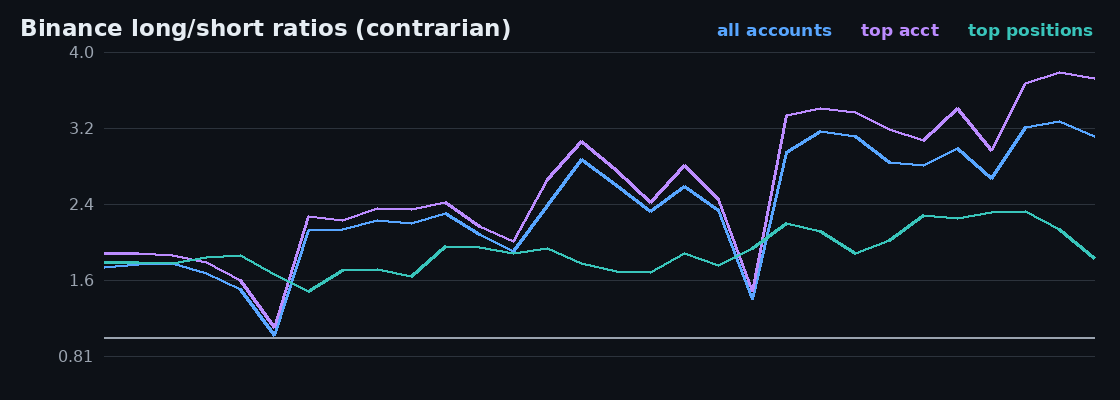
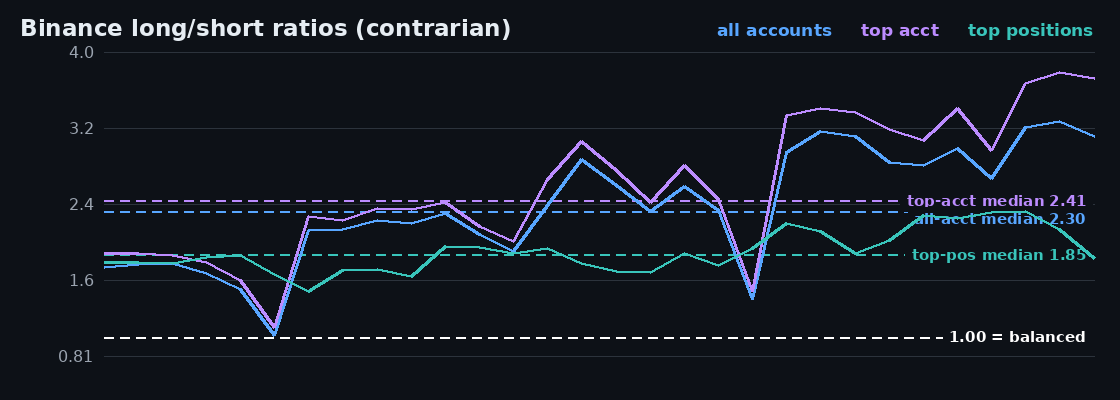
charts: L/S medians + 1.00 balance line as labelled dotted refs

diff --git a/index.html b/index.html
@@ -91,7 +91,7 @@ font-family:var(--mono);font-size:17px;font-weight:650;color:#e6edf3}
 </style></head><body><div class="wrap">
 <header>
   <h1>BTC Daily Digest</h1>
-  <div class="spotlbl">Bitcoin spot &middot; Coinbase<span class="upd">updated 2026-11-15 14:38 UTC</span></div>
+  <div class="spotlbl">Bitcoin spot &middot; Coinbase<span class="upd">updated 2026-11-15 14:44 UTC</span></div>
   <div class="spotpx">$64,907</div>
   <div class="spotrow"><span><b>Binance</b>$64,947</span><span><b>Coinbase &minus; Binance</b>-40 (-0.06%)</span><span><b>USDT/USD</b>0.99929</span></div>
   <div class="verdict-card">VERDICT: US bid ABSENT - premium negative, 30d mean at lows</div>
@@ -199,7 +199,7 @@ Colour is the stance, not the tone of the wording:
 
 <section id="charts" class="tab">
 <p class="note">Every indicator the digest tracks, charted. Hover-free, static PNGs &mdash; they render anywhere.</p>
-<div class="cgrid"><div class="ccard wide"><h4>Cycle context - price vs Balanced Price and all-time anchored VWAP</h4><div class="cnow"><span class="chip">Balanced $38,709</span><span class="chip">spot 1.68x balanced</span><span class="chip">AVWAP $29,928</span><span class="chip">spot 2.17x AVWAP</span></div><img src="chart.png" alt="BTC price, Balanced Price, anchored VWAP"><p class="cuse"><strong>How to use it:</strong> Balanced Price is where past cycle BOTTOMS converged (about 1.0x). The AVWAP is the market&#x27;s all-time break-even. The further spot sits above these, the more downside exists before deep support is reached. These are floors, not timing triggers - price can stay far above them for a long time.</p><p class="cverdict">&rarr; Spot is 1.68x the Balanced floor and 2.17x the all-time VWAP. A full retest of the floor would be roughly $38,709.</p></div><div class="ccard wide"><h4>Price vs moving averages</h4><div class="cnow"><span class="chip">spot $64,907</span><span class="chip">MA10 $72,882</span><span class="chip">MA50 $80,138</span><span class="chip">MA200 $72,973</span><span class="chip">vs MA200 -11.1%</span></div><img src="c_price.png" alt="Price vs moving averages"><p class="cuse"><strong>How to use it:</strong> A bounce in a downtrend stalls at the FIRST moving average above it. MA200 is the line the short-fade block waits for. Price above an MA = that MA is support; below = it is resistance.</p><p class="cverdict">&rarr; Spot is below all three MAs (none above), so every rally runs into overhead supply. MA200 is 11.1% away.</p></div><div class="ccard"><h4>Coinbase premium (US vs global bid)</h4><div class="cnow"><span class="chip">live -0.049%</span><span class="chip">30d mean -0.142%</span><span class="chip">71d negative</span></div><img src="c_premium.png" alt="Coinbase premium (US vs global bid)"><p class="cuse"><strong>How to use it:</strong> Above the zero line = US buyers paying more than global = US demand leading. A run of 20+ days below zero is a REGIME, not noise - it means the deepest pool of buyers is simply absent.</p><p class="cverdict">&rarr; US bid missing for 71 straight days - the structural buyer is not there.</p></div><div class="ccard"><h4>RSI momentum</h4><div class="cnow"><span class="chip">RSI6 9.2</span><span class="chip">RSI14 20.0</span><span class="chip">RSI24 28.0</span><span class="chip">RSI14 1y pctile 2%</span></div><img src="c_rsi.png" alt="RSI momentum"><p class="cuse"><strong>How to use it:</strong> Red 70 / green 30. Fast line above slow = momentum improving; fast BELOW slow = momentum deteriorating and bounces are being sold. This describes force - it does not trigger a trade on its own.</p><p class="cverdict">&rarr; RSI14 20.0 is oversold - capitulation zone, where bounces historically start. Fast &lt; slow: momentum still deteriorating.</p></div><div class="ccard"><h4>ETF net flows</h4><div class="cnow"><span class="chip">latest $+0m</span><span class="chip">5d $-770m</span><span class="chip">30d $-2,245m</span></div><img src="c_etf.png" alt="ETF net flows"><p class="cuse"><strong>How to use it:</strong> Green bars = creations (money in), red = redemptions (money out). Read the SUMS, never a single day - one day is noise, the 30d line is the trend. The amber line is cumulative.</p><p class="cverdict">&rarr; Money still leaving: $-2,245m over 30 days.</p></div><div class="ccard"><h4>Stablecoin supply</h4><div class="cnow"><span class="chip">combined $244.6bn</span><span class="chip">7d -2.79bn</span><span class="chip">30d -11.65bn</span></div><img src="c_stables.png" alt="Stablecoin supply"><p class="cuse"><strong>How to use it:</strong> Stablecoins are the dry powder of crypto. Expanding supply = fresh fiat entering the system. Contracting = capital leaving crypto entirely - it is NOT money sitting on the sidelines waiting.</p><p class="cverdict">&rarr; Contracting on both windows (-11.65bn over 30d) - capital is exiting, not waiting.</p></div><div class="ccard"><h4>Funding rate - what leverage costs</h4><div class="cnow"><span class="chip">now +0.0023%/8h</span><span class="chip">30d avg -&gt; +7.6% APR</span><span class="chip">positive 99% of time</span></div><img src="c_funding.png" alt="Funding rate - what leverage costs"><p class="cuse"><strong>How to use it:</strong> Funding is the 8-hourly payment between longs and shorts. Positive = LONGS pay shorts = leveraged longs are the crowded side (bearish tilt, dips get flushed). Negative = shorts pay, meaning crowded shorts and squeeze fuel UP - hostile to a short.</p><p class="cverdict">&rarr; Longs still paying - leveraged longs have NOT capitulated, so dips get flushed.</p></div><div class="ccard"><h4>Long/short ratios - who is crowded</h4><div class="cnow"><span class="chip">all acct 3.08 (87th pctile)</span><span class="chip">top acct 3.68 (97th pctile)</span><span class="chip">top positions 1.81</span></div><img src="c_ratios.png" alt="Long/short ratios - who is crowded"><p class="cuse"><strong>How to use it:</strong> Above 1 = more longs than shorts. Read it CONTRARIAN: a crowded long book is squeeze fuel DOWN; a crowded short book is squeeze fuel UP. When retail is long but top-trader POSITIONS are falling, smart money is exiting into retail strength. Mid-range percentile = no signal.</p><p class="cverdict">&rarr; Crowd is crowded LONG (87th pctile) - squeeze fuel down. Top-trader positions at 1.81, so smart money is not adding.</p></div><div class="ccard"><h4>Open interest - how much leverage exists</h4><div class="cnow"><span class="chip">$6.28bn</span><span class="chip">1d -0.44bn</span><span class="chip">30d range 6.28-8.24</span></div><img src="c_oi.png" alt="Open interest - how much leverage exists"><p class="cuse"><strong>How to use it:</strong> Total value of open perp positions. RISING = fresh positions entering (trend fuel). FALLING = positions closing, usually forced liquidation - that is deleveraging, not new shorts, and it often marks a local bounce.</p><p class="cverdict">&rarr; OI draining (-0.44bn) - deleveraging/liquidation, not fresh shorts.</p></div><div class="ccard"><h4>Volume: spot vs perp</h4><div class="cnow"><span class="chip">spot $1.4bn</span><span class="chip">perp $12.7bn</span><span class="chip">perp/spot 9.0x</span></div><img src="c_volume.png" alt="Volume: spot vs perp"><p class="cuse"><strong>How to use it:</strong> Spot volume is real buying and selling. Perp volume is leveraged bets on price. When perp dwarfs spot, price is being moved by leverage rather than by people taking delivery - moves are faster and less durable.</p><p class="cverdict">&rarr; Perp is 9.0x spot - leverage-dominated tape, expect fragile moves and liquidation wicks.</p></div></div>
+<div class="cgrid"><div class="ccard wide"><h4>Cycle context - price vs Balanced Price and all-time anchored VWAP</h4><div class="cnow"><span class="chip">Balanced $38,709</span><span class="chip">spot 1.68x balanced</span><span class="chip">AVWAP $29,928</span><span class="chip">spot 2.17x AVWAP</span></div><img src="chart.png" alt="BTC price, Balanced Price, anchored VWAP"><p class="cuse"><strong>How to use it:</strong> Balanced Price is where past cycle BOTTOMS converged (about 1.0x). The AVWAP is the market&#x27;s all-time break-even. The further spot sits above these, the more downside exists before deep support is reached. These are floors, not timing triggers - price can stay far above them for a long time.</p><p class="cverdict">&rarr; Spot is 1.68x the Balanced floor and 2.17x the all-time VWAP. A full retest of the floor would be roughly $38,709.</p></div><div class="ccard wide"><h4>Price vs moving averages</h4><div class="cnow"><span class="chip">spot $64,907</span><span class="chip">MA10 $72,882</span><span class="chip">MA50 $80,138</span><span class="chip">MA200 $72,973</span><span class="chip">vs MA200 -11.1%</span></div><img src="c_price.png" alt="Price vs moving averages"><p class="cuse"><strong>How to use it:</strong> A bounce in a downtrend stalls at the FIRST moving average above it. MA200 is the line the short-fade block waits for. Price above an MA = that MA is support; below = it is resistance.</p><p class="cverdict">&rarr; Spot is below all three MAs (none above), so every rally runs into overhead supply. MA200 is 11.1% away.</p></div><div class="ccard"><h4>Coinbase premium (US vs global bid)</h4><div class="cnow"><span class="chip">live -0.049%</span><span class="chip">30d mean -0.142%</span><span class="chip">71d negative</span></div><img src="c_premium.png" alt="Coinbase premium (US vs global bid)"><p class="cuse"><strong>How to use it:</strong> Above the zero line = US buyers paying more than global = US demand leading. A run of 20+ days below zero is a REGIME, not noise - it means the deepest pool of buyers is simply absent.</p><p class="cverdict">&rarr; US bid missing for 71 straight days - the structural buyer is not there.</p></div><div class="ccard"><h4>RSI momentum</h4><div class="cnow"><span class="chip">RSI6 9.2</span><span class="chip">RSI14 20.0</span><span class="chip">RSI24 28.0</span><span class="chip">RSI14 1y pctile 2%</span></div><img src="c_rsi.png" alt="RSI momentum"><p class="cuse"><strong>How to use it:</strong> Red 70 / green 30. Fast line above slow = momentum improving; fast BELOW slow = momentum deteriorating and bounces are being sold. This describes force - it does not trigger a trade on its own.</p><p class="cverdict">&rarr; RSI14 20.0 is oversold - capitulation zone, where bounces historically start. Fast &lt; slow: momentum still deteriorating.</p></div><div class="ccard"><h4>ETF net flows</h4><div class="cnow"><span class="chip">latest $+0m</span><span class="chip">5d $-770m</span><span class="chip">30d $-2,245m</span></div><img src="c_etf.png" alt="ETF net flows"><p class="cuse"><strong>How to use it:</strong> Green bars = creations (money in), red = redemptions (money out). Read the SUMS, never a single day - one day is noise, the 30d line is the trend. The amber line is cumulative.</p><p class="cverdict">&rarr; Money still leaving: $-2,245m over 30 days.</p></div><div class="ccard"><h4>Stablecoin supply</h4><div class="cnow"><span class="chip">combined $244.6bn</span><span class="chip">7d -2.79bn</span><span class="chip">30d -11.65bn</span></div><img src="c_stables.png" alt="Stablecoin supply"><p class="cuse"><strong>How to use it:</strong> Stablecoins are the dry powder of crypto. Expanding supply = fresh fiat entering the system. Contracting = capital leaving crypto entirely - it is NOT money sitting on the sidelines waiting.</p><p class="cverdict">&rarr; Contracting on both windows (-11.65bn over 30d) - capital is exiting, not waiting.</p></div><div class="ccard"><h4>Funding rate - what leverage costs</h4><div class="cnow"><span class="chip">now +0.0023%/8h</span><span class="chip">30d avg -&gt; +7.6% APR</span><span class="chip">positive 99% of time</span></div><img src="c_funding.png" alt="Funding rate - what leverage costs"><p class="cuse"><strong>How to use it:</strong> Funding is the 8-hourly payment between longs and shorts. Positive = LONGS pay shorts = leveraged longs are the crowded side (bearish tilt, dips get flushed). Negative = shorts pay, meaning crowded shorts and squeeze fuel UP - hostile to a short.</p><p class="cverdict">&rarr; Longs still paying - leveraged longs have NOT capitulated, so dips get flushed.</p></div><div class="ccard"><h4>Long/short ratios - who is crowded</h4><div class="cnow"><span class="chip">all acct 3.08 (87th pctile)</span><span class="chip">top acct 3.68 (97th pctile)</span><span class="chip">top positions 1.81</span></div><img src="c_ratios.png" alt="Long/short ratios - who is crowded"><p class="cuse"><strong>How to use it:</strong> Above 1 = more longs than shorts. Read it CONTRARIAN: a crowded long book is squeeze fuel DOWN; a crowded short book is squeeze fuel UP. When retail is long but top-trader POSITIONS are falling, smart money is exiting into retail strength. Mid-range percentile = no signal.</p><p class="cverdict">&rarr; Crowd is crowded LONG (87th pctile) - squeeze fuel down. Top-trader positions at 1.81, so smart money is not adding.</p></div><div class="ccard"><h4>Open interest - how much leverage exists</h4><div class="cnow"><span class="chip">$6.28bn</span><span class="chip">1d -0.44bn</span><span class="chip">30d range 6.28-8.24</span></div><img src="c_oi.png" alt="Open interest - how much leverage exists"><p class="cuse"><strong>How to use it:</strong> Total value of open perp positions. RISING = fresh positions entering (trend fuel). FALLING = positions closing, usually forced liquidation - that is deleveraging, not new shorts, and it often marks a local bounce.</p><p class="cverdict">&rarr; OI draining (-0.44bn) - deleveraging/liquidation, not fresh shorts.</p></div><div class="ccard"><h4>Volume: spot vs perp</h4><div class="cnow"><span class="chip">spot $1.4bn</span><span class="chip">perp $12.9bn</span><span class="chip">perp/spot 9.0x</span></div><img src="c_volume.png" alt="Volume: spot vs perp"><p class="cuse"><strong>How to use it:</strong> Spot volume is real buying and selling. Perp volume is leveraged bets on price. When perp dwarfs spot, price is being moved by leverage rather than by people taking delivery - moves are faster and less durable.</p><p class="cverdict">&rarr; Perp is 9.0x spot - leverage-dominated tape, expect fragile moves and liquidation wicks.</p></div></div>
 </section>
 
 <section id="ref" class="tab">
@@ -324,7 +324,7 @@ Colour is the stance, not the tone of the wording:
 <footer>
 <p>Generated automatically from keyless public APIs (Coinbase, Binance, DeFiLlama, cryptoetf.today, Look Into Bitcoin, BGeometrics, alternative.me). No credentials, no subscription feeds.</p>
 <p>Not financial advice. Backtest figures are historical and samples are small where noted.</p>
-<p>Last build: 2026-11-15 14:38 UTC</p>
+<p>Last build: 2026-11-15 14:44 UTC</p>
 </footer>
 <script>
 document.querySelectorAll('.tabs button').forEach(function(b){

diff --git a/charts.py b/charts.py
@@ -10,6 +10,7 @@ apparent size instead of being scaled down into illegibility.
 import json
 import math
 import os
+import statistics
 import urllib.request
 
 from PIL import Image, ImageDraw, ImageFont
@@ -100,8 +101,15 @@ def _mapx(i, n, x0, x1):
     return x0 + (x1 - x0) * (i / max(1, n - 1))
 
 
-def line_chart(path, series, title, days=None, log=False, hlines=(), pad=(104, 26, 52, 44)):
-    """series: list of (values, colour, label)."""
+def line_chart(path, series, title, days=None, log=False, hlines=(), dlines=(),
+               pad=(104, 26, 52, 44)):
+    """series: list of (values, colour, label).
+
+    dlines: [(value, colour, label)] - dotted reference lines (a series' own median, a balance
+    point) labelled at the right edge. PIL has no dash style so these are drawn by hand. The L/S
+    medians sit ~11px apart on the canvas, so labels are staggered vertically and boxed on the
+    chart background - otherwise they print on top of each other and read as a single number.
+    """
     pl, pr, pt, pb = pad
     img, d = _frame(title)
     x0, x1, y0, y1 = pl, W - pr, pt, H - pb
@@ -123,6 +131,28 @@ def line_chart(path, series, title, days=None, log=False, hlines=(), pad=(104, 2
         if hi >= v >= lo:
             y = y1 - (y1 - y0) * (tf(v) - tlo) / (thi - tlo)
             d.line([(x0, y), (x1, y)], fill=col, width=2)
+
+    # dotted reference lines, hand-drawn (PIL has no dash style), each tagged at the right edge
+    tags = []
+    for v, col, lbl in dlines:
+        if not (hi >= v >= lo):
+            continue
+        y = y1 - (y1 - y0) * (tf(v) - tlo) / (thi - tlo)
+        x = x0
+        while x < x1:
+            d.line([(x, y), (min(x + 9, x1), y)], fill=col, width=2)
+            x += 16
+        tags.append([y, lbl, col])
+    tags.sort(key=lambda r: r[0])
+    for i in range(1, len(tags)):                    # push labels apart so none overlap
+        if tags[i][0] - tags[i - 1][0] < 18:
+            tags[i][0] = tags[i - 1][0] + 18
+    ftag = _font(15, True)
+    for y, lbl, col in tags:
+        y = min(max(y, y0 + 10), y1 - 4)
+        tw = d.textlength(lbl, font=ftag)
+        d.rectangle([x1 - tw - 14, y - 11, x1 - 2, y + 11], fill=BG)   # box it, or lines show through
+        d.text((x1 - 8, y), lbl, fill=col, font=ftag, anchor="rm")
 
     for vals, col, *rest in series:
         pts = [(_mapx(i, len(vals), x0, x1), y1 - (y1 - y0) * (tf(v) - tlo) / (thi - tlo))
@@ -422,8 +452,16 @@ def build_all(outdir, series_path):
     try:
         ra = S.get("ratios_all", []); rt = S.get("ratios_topacct", []); rp = S.get("ratios_toppos", [])
         p = os.path.join(outdir, "c_ratios.png")
+        # Draw each series' OWN median, because the three answers to "is this crowded?" differ -
+        # a bare 1.8 means nothing until you know that series' normal. Plus the 1.00 balance line,
+        # the only hard reference: everything above it is net long, whatever "normal" happens to be.
+        med = lambda v: (statistics.median(v) if v else 0.0)
+        refs = [(1.0, WHITE, "1.00 = balanced"),
+                (med(ra), ACC, f"all-acct median {med(ra):.2f}"),
+                (med(rt), PUR, f"top-acct median {med(rt):.2f}"),
+                (med(rp), TEAL, f"top-pos median {med(rp):.2f}")]
         if line_chart(p, [(ra, ACC, "all accounts"), (rt, PUR, "top acct"), (rp, TEAL, "top positions")],
-                      "Binance long/short ratios (contrarian)", hlines=[(1, DIM)]):
+                      "Binance long/short ratios (contrarian)", dlines=refs):
             pa = sum(1 for x in ra if x <= ra[-1]) / len(ra) * 100
             pt = sum(1 for x in rt if x <= rt[-1]) / len(rt) * 100
             add("c_ratios.png", "Long/short ratios - who is crowded",
